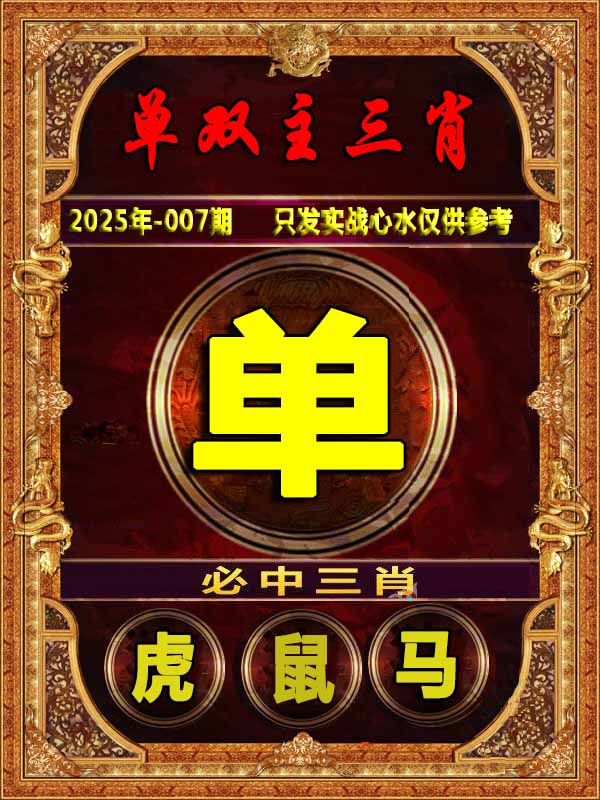
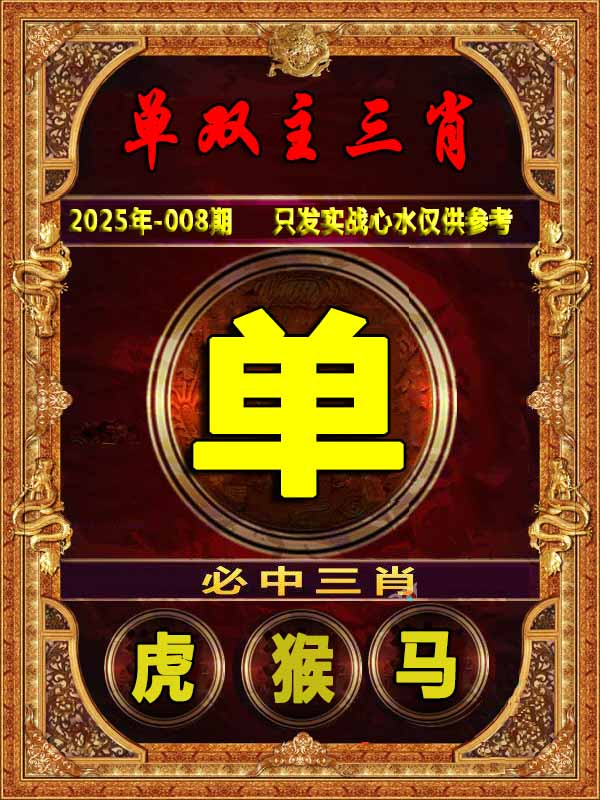
Update:  2025.01.08 14:20:35

Changed region(s): [[0.45, 0.7812, 0.57, 0.875], [0.3, 0.25, 0.36, 0.3125]]

diff --git a/Script/Src/xjw/杀两肖图.js b/Script/Src/xjw/杀两肖图.js
@@ -72,8 +72,8 @@ document.writeln("					<td height=\'40\' style=\'box-sizing: border-box;\'>");
 document.writeln("			<p align=\'center\' style=\'box-sizing: border-box; padding: 0px; margin: 0px;\'>");
 document.writeln("			<font size=\'4\' style=\'margin: 0px; padding: 0px;\'>");
 document.writeln("			008期玄机网禁两肖<font color=\'#FF0000\'>【牛羊】</font>特开<font color=\'#0000FF\'>？00</font>准<br>");
-document.writeln("			008期澳门杀两肖图<font color=\'#FF0000\'>【？？】</font>特开<font color=\'#0000FF\'>？00</font>准<br>");
-document.writeln("			008期澳门图库禁肖<font color=\'#FF0000\'>【？？】</font>特开<font color=\'#0000FF\'>？00</font>准</font></font></p></td>");
+document.writeln("			008期澳门杀两肖图<font color=\'#FF0000\'>【猪虎】</font>特开<font color=\'#0000FF\'>？00</font>准<br>");
+document.writeln("			008期澳门图库禁肖<font color=\'#FF0000\'>【虎马】</font>特开<font color=\'#0000FF\'>？00</font>准</font></font></p></td>");
 document.writeln("		</tr>");
 document.writeln("<!--结束-->	");
 document.writeln("		");
